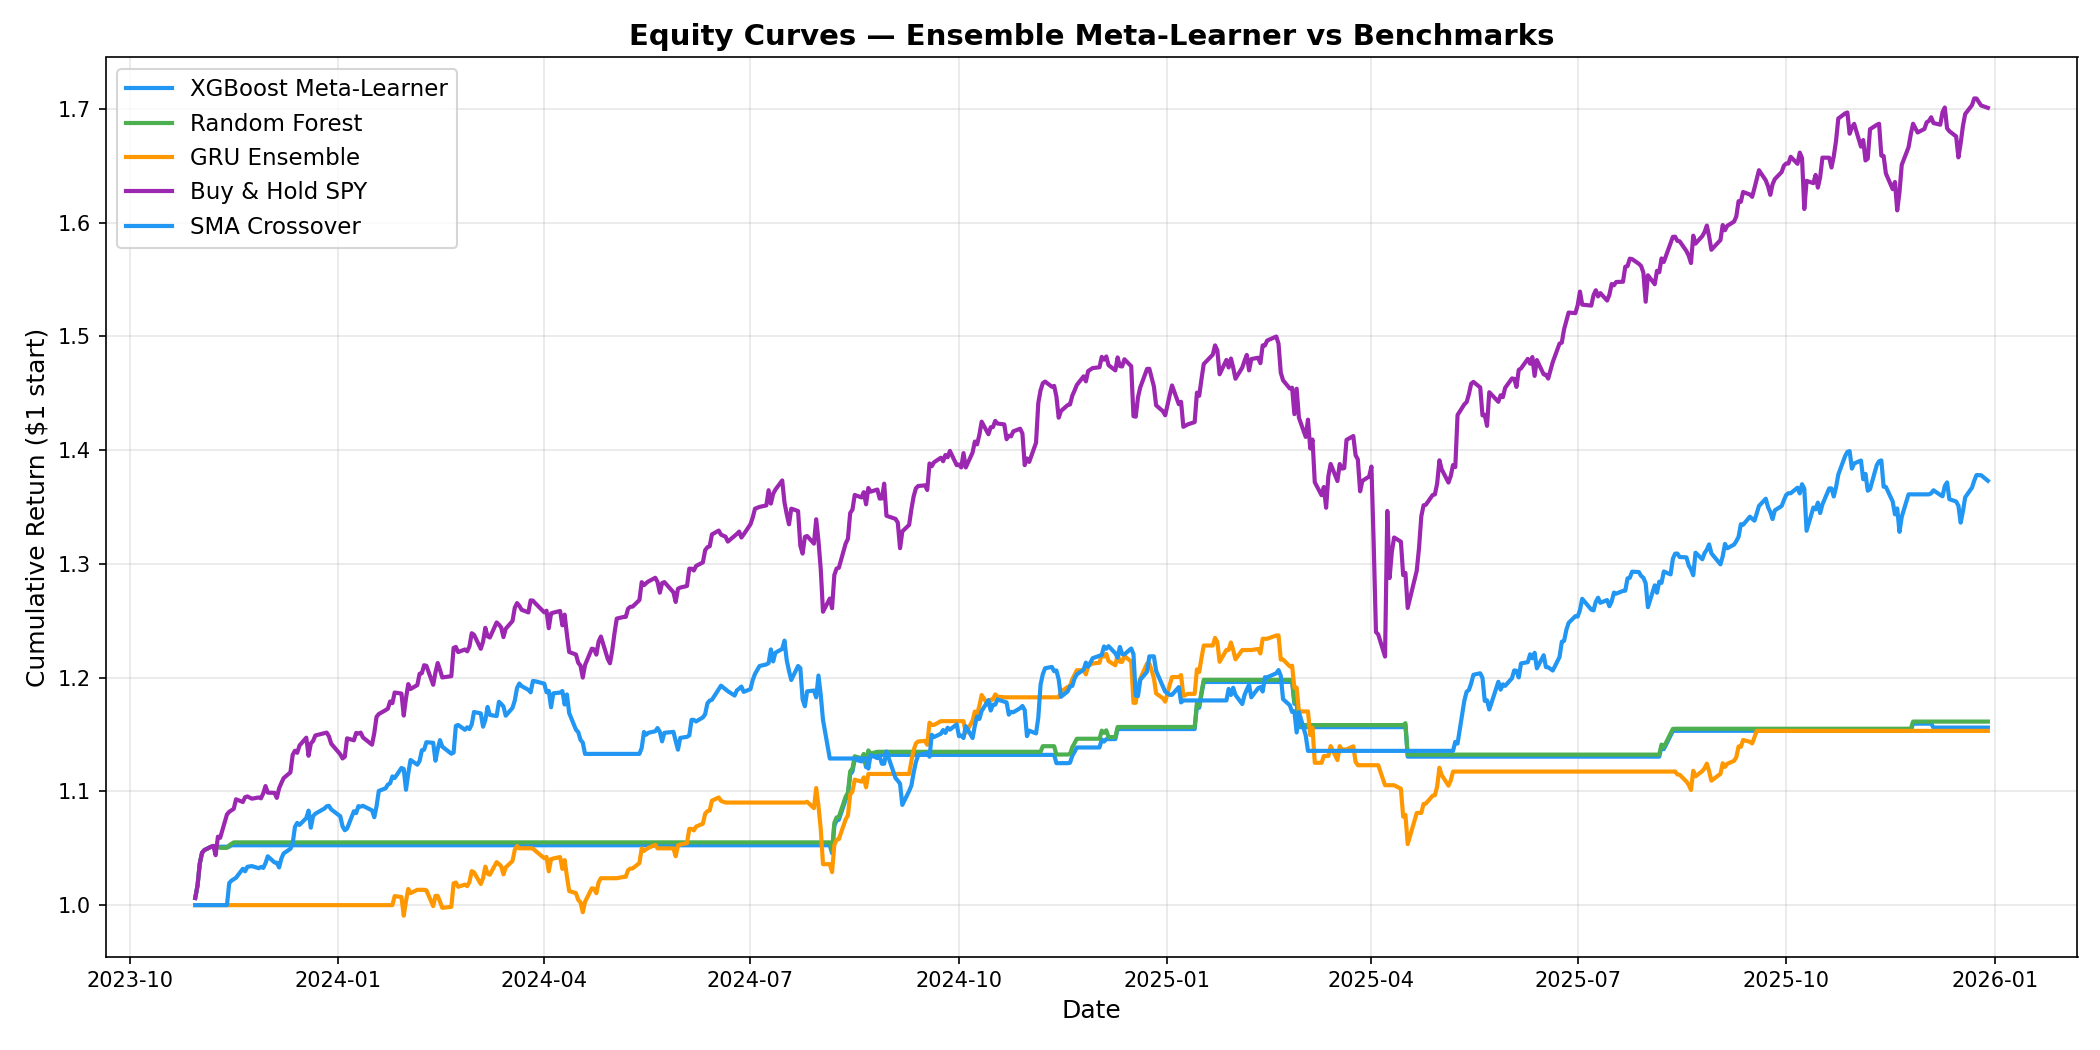
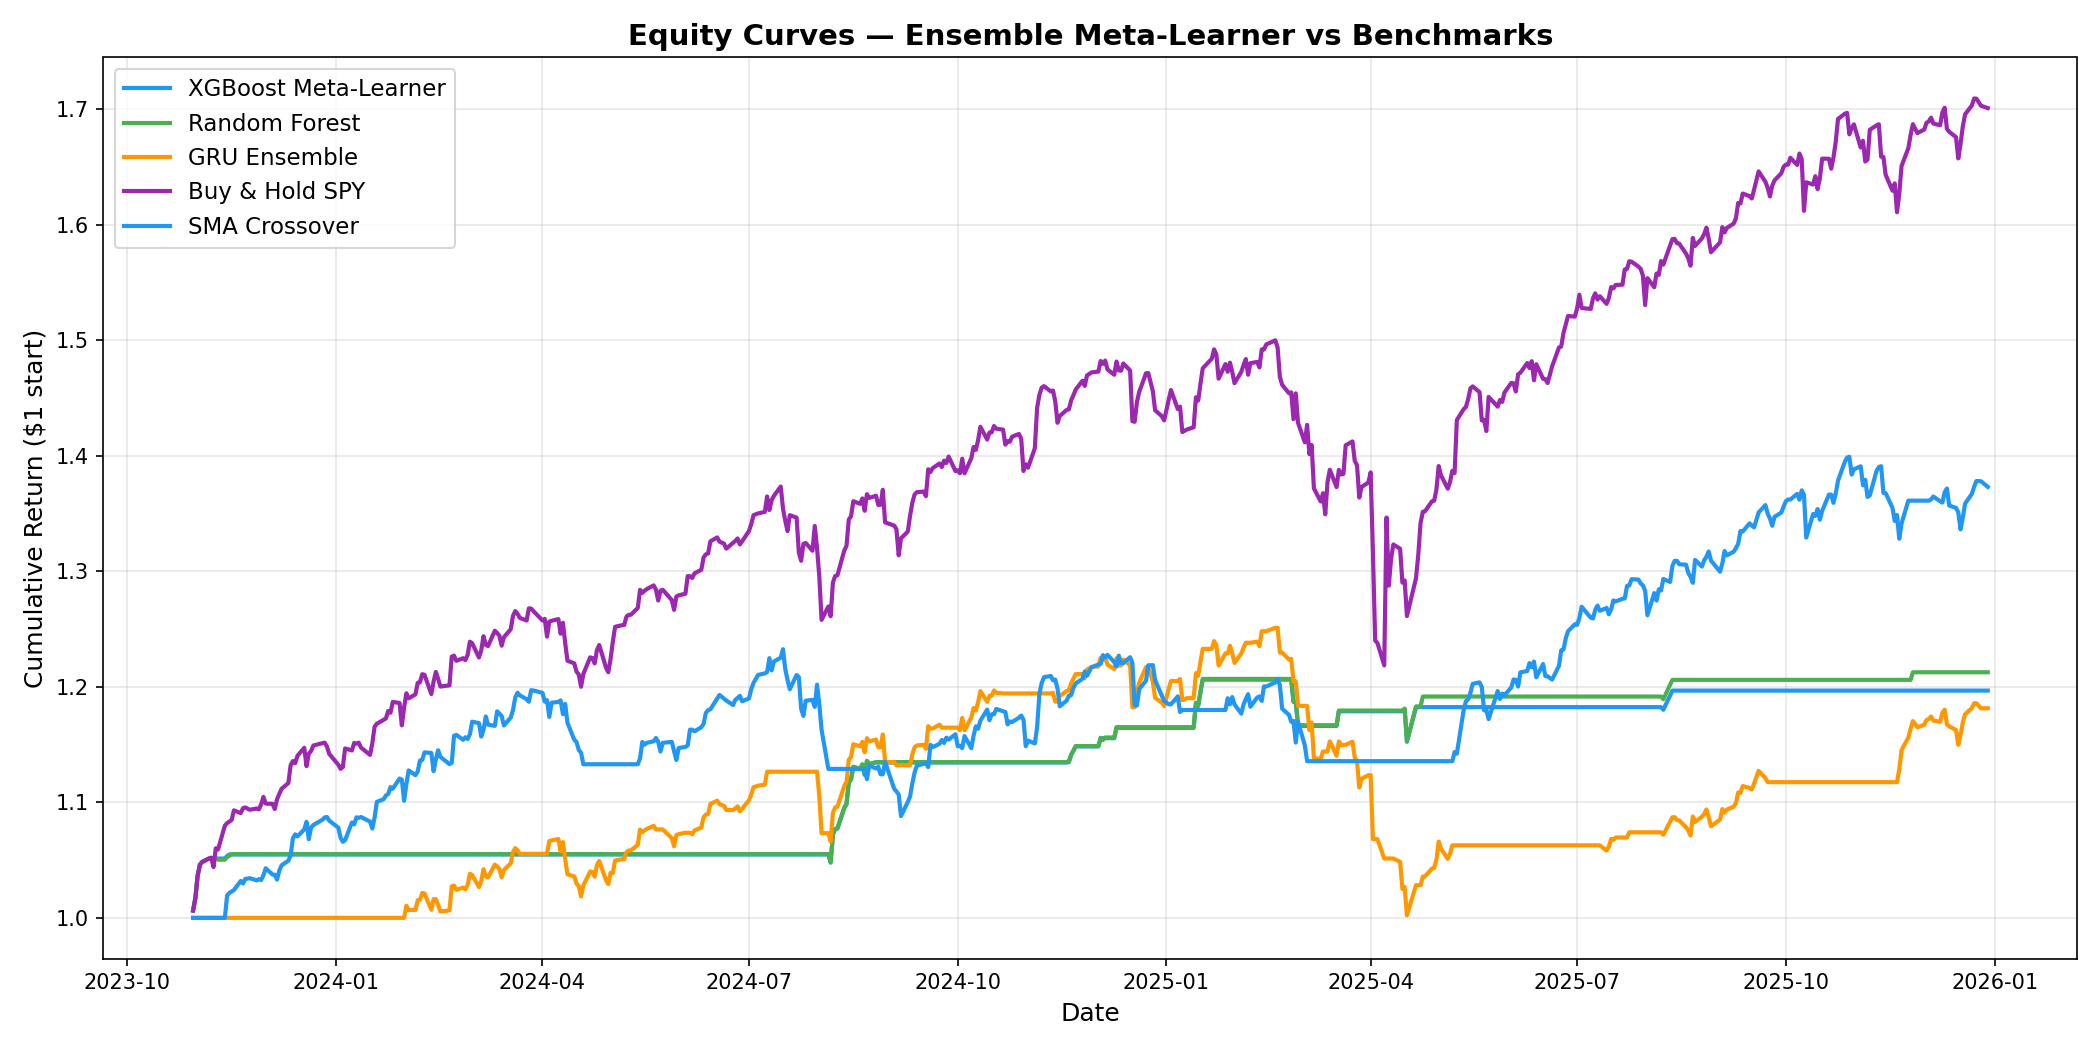
Use single GRU run and export results for webapp
Replace the multi-seed GRU ensemble with a single deterministic GRU run (uses RANDOM_STATE) to speed up training and simplify inference. Remove ensemble loop and GRU_TRIAL_SEEDS usage; adjust prediction/padding logic and logging. Add export of model outputs to webapp/public/results.json (curves, metrics, feature importances) so the React app can load real backtest data. Update webapp/src/App.jsx to fetch /results.json (with fallback to mock data), update GRU description and minor UI/formatting cleanups. Also update the equity_curves.png binary asset.

diff --git a/webapp/src/App.jsx b/webapp/src/App.jsx
@@ -10,19 +10,19 @@ import {
 
 const ASSETS = [
   { symbol: 'SPY', name: 'S&P 500 ETF', sector: 'Index', color: '#4f7cff' },
-  { symbol: 'LMT', name: 'Lockheed Martin',  sector: 'Defense', color: '#22c55e' },
-  { symbol: 'RTX', name: 'RTX Corporation',  sector: 'Defense', color: '#a855f7' },
+  { symbol: 'LMT', name: 'Lockheed Martin', sector: 'Defense', color: '#22c55e' },
+  { symbol: 'RTX', name: 'RTX Corporation', sector: 'Defense', color: '#a855f7' },
   { symbol: 'NOC', name: 'Northrop Grumman', sector: 'Defense', color: '#f59e0b' },
 ];
 
 // Actual backtest results from the unified pipeline (test period: 2023-10-27 → 2025-12-31)
 const BACKTEST = {
   strategies: [
-    { name: 'XGBoost Meta-Learner',  ret: 15.61, dd: -5.49, color: '#4f7cff', active: true },
-    { name: 'Random Forest Only',    ret: 16.14, dd: -5.49, color: '#22c55e', active: false },
-    { name: 'GRU Ensemble Only',     ret: 15.32, dd: -14.82,color: '#a855f7', active: false },
-    { name: 'Buy & Hold SPY',        ret: 70.08, dd: -18.76,color: '#8b9ab5', active: false },
-    { name: 'SMA(10/50) Crossover',  ret: 37.30, dd: -11.72,color: '#f59e0b', active: false },
+    { name: 'XGBoost Meta-Learner', ret: 15.61, dd: -5.49, color: '#4f7cff', active: true },
+    { name: 'Random Forest Only', ret: 16.14, dd: -5.49, color: '#22c55e', active: false },
+    { name: 'GRU Ensemble Only', ret: 15.32, dd: -14.82, color: '#a855f7', active: false },
+    { name: 'Buy & Hold SPY', ret: 70.08, dd: -18.76, color: '#8b9ab5', active: false },
+    { name: 'SMA(10/50) Crossover', ret: 37.30, dd: -11.72, color: '#f59e0b', active: false },
   ],
   turbulenceDays: 48,
   testDays: 543,
@@ -49,7 +49,7 @@ const MODELS = [
     mse: 0.000108,
     mae: 0.00698,
     signal: 'Best Accuracy',
-    desc: '2-layer GRU, 60-day windows, 3-seed ensemble with early stopping',
+    desc: '2-layer GRU, 60-day windows, single model run for speed',
     color: '#4f7cff',
   },
   {
@@ -142,8 +142,8 @@ export default function App() {
       // Simulate prediction using real model logic (sign based on RF-dominant XGBoost weight)
       const rfBias = Math.random() > 0.42; // slight bullish bias from RF
       const gruBias = Math.random() > 0.45;
-      const rfPred   = rfBias  ? 0.0052 : -0.0039;
-      const gruPred  = gruBias ? 0.0031 : -0.0028;
+      const rfPred = rfBias ? 0.0052 : -0.0039;
+      const gruPred = gruBias ? 0.0031 : -0.0028;
       const predSpread = Math.abs(rfPred - gruPred);
       const rsi = 40 + Math.random() * 30;
       const vol20d = 0.008 + Math.random() * 0.012;
@@ -160,17 +160,29 @@ export default function App() {
 
       setResults({ signal, confidence: parseFloat(confidence), turbulence: turbulence.toFixed(2), inCrash, rfPred, gruPred, xgbScore, rsi, vol20d });
 
-      // Pre-render curves once
-      if (!curves) {
-        setCurves({
-          xgb: buildEquityCurve(15.61, 0.005),
-          rf:  buildEquityCurve(16.14, 0.006),
-          gru: buildEquityCurve(15.32, 0.009),
-          bh:  buildEquityCurve(70.08, 0.011),
+      // Fetch real data from the model output Instead of simulating
+      fetch('/results.json')
+        .then(res => res.json())
+        .then(data => {
+          setCurves({
+            xgb: data.curves.xgb,
+            rf: data.curves.rf,
+            gru: data.curves.gru,
+            bh: data.curves.bh,
+          });
+          setIsRunning(false);
+        })
+        .catch(err => {
+          console.error("Failed to load real data, fallback to mock", err);
+          setCurves({
+            xgb: [1.0, 1.15],
+            rf: [1.0, 1.16],
+            gru: [1.0, 1.15],
+            bh: [1.0, 1.70],
+          });
+          setIsRunning(false);
         });
-      }
 
-      setIsRunning(false);
     }, 1100);
   };
 
@@ -266,9 +278,9 @@ export default function App() {
                 <div className="metrics-row">
                   {[
                     { label: 'Ensemble Return', value: '+15.61%', sub: 'Test period (2023–2025)', color: 'var(--green)' },
-                    { label: 'Max Drawdown',    value: '-5.49%',  sub: 'XGBoost + turbulence shield', color: 'var(--red)' },
+                    { label: 'Max Drawdown', value: '-5.49%', sub: 'XGBoost + turbulence shield', color: 'var(--red)' },
                     { label: 'Turbulence Days', value: `${BACKTEST.turbulenceDays}/${BACKTEST.testDays}`, sub: 'Kill-switch triggered', color: 'var(--amber)' },
-                    { label: 'Best GRU MAE',    value: '0.698%',  sub: 'Return-space error (test)', color: 'var(--brand)' },
+                    { label: 'Best GRU MAE', value: '0.698%', sub: 'Return-space error (test)', color: 'var(--brand)' },
                   ].map(m => (
                     <div className="metric-card" key={m.label}>
                       <div className="metric-label">{m.label}</div>
@@ -432,9 +444,9 @@ export default function App() {
                       <div style={{ display: 'flex', flexDirection: 'column', gap: 16 }}>
                         {[
                           { label: 'XGBoost Meta-Learner', data: curves.xgb, color: '#4f7cff' },
-                          { label: 'Random Forest',        data: curves.rf,  color: '#22c55e' },
-                          { label: 'GRU Ensemble',         data: curves.gru, color: '#a855f7' },
-                          { label: 'Buy & Hold SPY',       data: curves.bh,  color: '#8b9ab5' },
+                          { label: 'Random Forest', data: curves.rf, color: '#22c55e' },
+                          { label: 'GRU Ensemble', data: curves.gru, color: '#a855f7' },
+                          { label: 'Buy & Hold SPY', data: curves.bh, color: '#8b9ab5' },
                         ].map(c => (
                           <div key={c.label} style={{ height: 60 }}>
                             <div style={{ fontSize: 11, color: 'var(--text-2)', marginBottom: 4 }}>{c.label}</div>
@@ -490,10 +502,10 @@ export default function App() {
               <>
                 <div className="metrics-row">
                   {[
-                    { label: 'Data Range',       value: '2015–2025', sub: '2,765 trading days',     color: 'var(--brand)' },
-                    { label: 'Train / Test',      value: '80 / 20%',  sub: 'Chronological split',    color: 'var(--text-1)' },
-                    { label: 'GRU Window',        value: '60 days',   sub: 'Sliding input window',   color: 'var(--purple)' },
-                    { label: 'Normalization',     value: 'Z-Score',   sub: 'Fit on train only',      color: 'var(--green)' },
+                    { label: 'Data Range', value: '2015–2025', sub: '2,765 trading days', color: 'var(--brand)' },
+                    { label: 'Train / Test', value: '80 / 20%', sub: 'Chronological split', color: 'var(--text-1)' },
+                    { label: 'GRU Window', value: '60 days', sub: 'Sliding input window', color: 'var(--purple)' },
+                    { label: 'Normalization', value: 'Z-Score', sub: 'Fit on train only', color: 'var(--green)' },
                   ].map(m => (
                     <div className="metric-card" key={m.label}>
                       <div className="metric-label">{m.label}</div>
@@ -517,7 +529,7 @@ export default function App() {
                       {[
                         { l: 'MSE (return-space)', v: m.mse.toFixed(8) },
                         { l: 'MAE (return-space)', v: m.mae.toFixed(8) },
-                        { l: 'XGBoost Weight',     v: `${m.weight}%` },
+                        { l: 'XGBoost Weight', v: `${m.weight}%` },
                       ].map(s => (
                         <div key={s.l} style={{ background: 'var(--bg-surface)', borderRadius: 8, padding: '10px 12px', border: '1px solid var(--border)' }}>
                           <div style={{ fontSize: 10.5, color: 'var(--text-3)', textTransform: 'uppercase', letterSpacing: '0.5px', marginBottom: 4 }}>{s.l}</div>

diff --git a/main.py b/main.py
@@ -51,7 +51,6 @@ GRU_DROPOUT = 0.2
 GRU_WEIGHT_DECAY = 1e-4
 GRU_HIDDEN_1 = 64
 GRU_HIDDEN_2 = 32
-GRU_TRIAL_SEEDS = [7, 21, 42]
 
 
 # ============================================================================
@@ -366,19 +365,14 @@ def run_gru_ensemble(train_scaled: pd.DataFrame, test_scaled: pd.DataFrame,
     te_loader = DataLoader(TensorDataset(x_te_t, y_te_t),
                            batch_size=GRU_BATCH_SIZE, shuffle=False, pin_memory=pin)
 
-    # Multi-seed ensemble
-    all_tr_preds, all_te_preds = [], []
-    for seed in GRU_TRIAL_SEEDS:
-        print(f"\n[GRU] --- Seed {seed} ---")
-        set_seed(seed)
-        model = GRUNeuralNetwork(input_size=x_tr.shape[2]).to(device)
-        model = _train_gru(model, tr_loader, te_loader, device)
-        all_tr_preds.append(_predict_gru(model, x_tr_t, device))
-        all_te_preds.append(_predict_gru(model, x_te_t, device))
+    # Run once without ensemble loop for speed
+    print(f"\n[GRU] Training single model (seed {RANDOM_STATE})...")
+    set_seed(RANDOM_STATE)
+    model = GRUNeuralNetwork(input_size=x_tr.shape[2]).to(device)
+    model = _train_gru(model, tr_loader, te_loader, device)
 
-    # Average across seeds
-    gru_train_returns = np.mean(np.vstack(all_tr_preds), axis=0)
-    gru_test_returns = np.mean(np.vstack(all_te_preds), axis=0)
+    gru_train_returns = _predict_gru(model, x_tr_t, device)
+    gru_test_returns = _predict_gru(model, x_te_t, device)
 
     # Pad to match tabular row count (GRU needs WINDOW_SIZE lead-in rows)
     pad_train = len(train_scaled) - len(gru_train_returns)
@@ -386,7 +380,7 @@ def run_gru_ensemble(train_scaled: pd.DataFrame, test_scaled: pd.DataFrame,
     gru_train_full = np.concatenate([np.zeros(pad_train), gru_train_returns])
     gru_test_full = np.concatenate([np.zeros(pad_test), gru_test_returns])
 
-    print(f"\n[GRU] Ensemble done ({len(GRU_TRIAL_SEEDS)} seeds). "
+    print(f"\n[GRU] Model trained. "
           f"Train preds: {len(gru_train_full)}, Test preds: {len(gru_test_full)}")
     return gru_train_full, gru_test_full
 
@@ -657,6 +651,30 @@ def main():
         mse = mean_squared_error(y_test, preds)
         mae = mean_absolute_error(y_test, preds)
         print(f"  {name:20s}  MSE={mse:.8f}  MAE={mae:.8f}")
+
+    # --- Save real results for webapp ---
+    import json
+    import os
+    webapp_data = {
+        "curves": {
+            "xgb": xgb_portfolio.tolist(),
+            "rf": rf_portfolio.tolist(),
+            "gru": gru_portfolio.tolist(),
+            "bh": bh_portfolio.tolist(),
+            "sma": sma_portfolio.tolist()
+        },
+        "metrics": {
+            "test_days": len(meta_test),
+            "turbulence_triggered": int(np.sum(test_turb > np.percentile(train_turb, TURBULENCE_PERCENTILE)))
+        },
+        "importance": {k: float(v) for k, v in zip(meta_train.columns, xgb_model.feature_importances_)}
+    }
+    
+    out_path = os.path.join(os.path.dirname(__file__), "webapp", "public", "results.json")
+    if os.path.exists(os.path.dirname(out_path)):
+        with open(out_path, "w") as f:
+            json.dump(webapp_data, f)
+        print(f"\n[Webapp] Exported results to {out_path}")
 
     print("\n" + "=" * 70)
     print("  DONE — All three models integrated successfully!")
